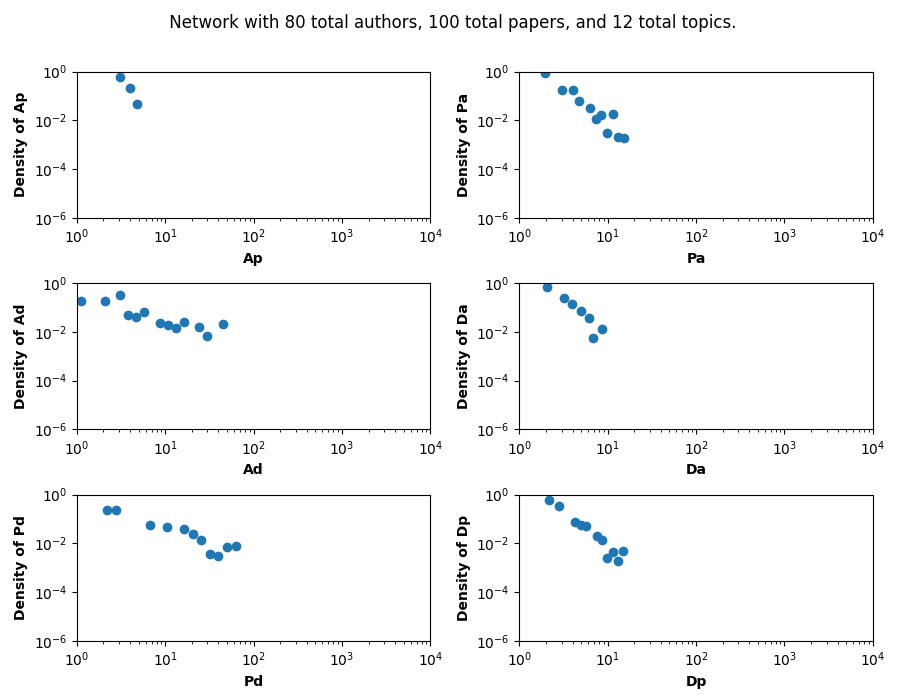
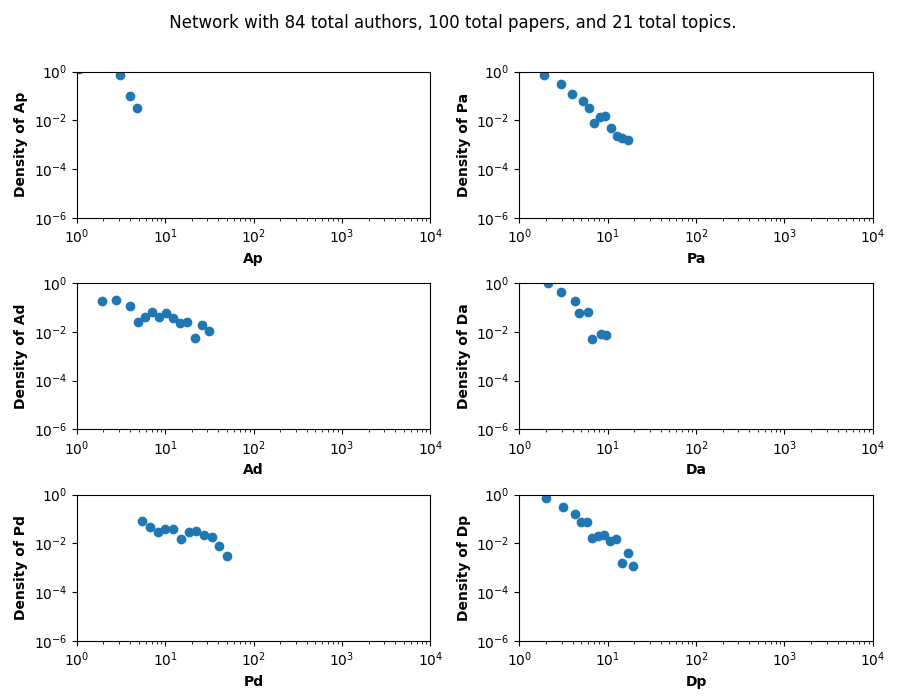
Added credit per discipline graph

diff --git a/docs/outputs/bibsonomyPage.html b/docs/outputs/bibsonomyPage.html
@@ -73,7 +73,7 @@
                         </tr>
                     </table>
                     <img src=bibsonomyPlots.png style="width:100%">
-                    <img src=[{1: [0, 1, 1, 0, 1, 1, 0, 1, 0, 0, 0, 1, 0, 1, 0, 1, 0, 0, 1, 0, 0, 0, 0, 0, 0, 0, 1, 0, 0, 0, 1, 1, 0, 1, 0, 1, 1, 0, 0, 0, 0, 1, 1, 1, 1, 1, 0, 1, 1, 1, 1, 1, 0, 0, 1, 1, 1, 1, 0, 0, 0, 0, 0, 1, 0, 1, 1, 1, 1, 0, 0, 1, 1, 0, 0, 0, 1, 1, 0, 0, 1, 1, 0, 1, 1, 0, 0, 1, 1, 1, 1, 1, 0, 1, 0, 0, 0, 1, 0, 1, 1, 1, 0, 0, 1, 0, 0, 1, 1, 0, 0, 0, 1, 1, 1, 1, 1], 2: [1, 0, 1, 0, 0, 1, 0, 0, 0, 0, 0, 0, 1, 0, 0, 1, 1, 1], 3: [0, 1, 0, 0, 1, 1, 0, 0, 1, 0, 0, 1, 0, 1, 0, 1, 0, 0, 1, 0, 0, 0, 1, 1, 0, 0, 1, 0, 1, 1, 1, 0, 0, 0, 0, 0, 1, 1, 1, 0, 0, 0, 0, 1, 1, 0, 1, 0, 0, 0, 0, 1, 1, 1, 0, 1, 0, 1, 1, 1, 1, 0, 0], 4: [0, 1, 0, 1, 1, 0, 0, 1, 0, 1, 0, 0, 1, 0, 0, 0, 0, 1, 1, 1, 0, 1, 1, 1, 1, 1, 1, 0, 1, 1, 0, 0, 1, 1, 0, 1, 0, 0, 0, 0, 1, 0, 1, 1, 0, 0, 1, 1, 1, 1, 0, 1, 1, 1, 1, 1, 0], 5: [0, 1, 1, 0, 0, 0, 0, 0, 1, 1, 0, 0, 1, 1, 0, 0, 0, 1, 0, 1, 0, 0, 1, 0, 1, 0, 1, 0, 0, 1, 0, 1, 1, 1, 0, 1, 1, 1, 0, 1, 0, 0, 0, 0, 0, 0, 1, 0], 6: [], 7: [], 8: [1, 0, 1, 1, 0, 0, 0, 0, 1, 1, 1, 1], 9: [1, 0, 0, 0, 0, 1, 0, 0, 1, 1, 0, 0, 0, 1, 0, 1, 1, 1, 0, 1, 1, 1, 1, 1, 0, 0, 1, 1, 1, 0, 1, 0, 0, 0, 1, 0, 1, 1, 0, 1, 1, 1, 1, 1, 1, 0, 1, 0, 0, 1, 1, 1, 0, 0, 1, 1, 1], 10: [1, 0, 0, 1, 0, 1], 11: [1, 0], 12: [0, 1, 1], 13: [1, 0, 1], 14: [0, 1, 1], 15: [0, 0, 1, 1], 16: [0, 1, 0, 1, 1], 17: [1, 0, 0, 0, 0, 0, 1, 0, 0, 0, 1, 0], 18: [1, 0], 19: [], 20: [0, 1, 1], 21: [], 22: [0, 0, 1, 0, 1, 0, 0, 1, 0, 0, 0, 1, 0, 1, 1, 1, 0, 0, 1, 1, 1, 1, 0, 0, 1, 1, 0, 0, 0, 1, 1, 1, 1, 1, 1, 1, 0, 1, 0, 1, 0, 1, 1, 0]}, {1: [6, 13, 19, 2, 5, 3, 2, 3, 3, 2, 5, 9, 4, 5, 3, 5, 2, 2, 3, 5, 2, 4, 3, 2, 2, 2, 23, 2, 5, 7, 9, 9, 3, 11, 4, 11, 5, 3, 3, 3, 2, 3, 3, 3, 3, 5, 3, 5, 3, 3, 3, 3, 2, 2, 3, 3, 25, 23, 4, 3, 5, 2, 5, 7, 8, 15, 9, 11, 3, 5, 3, 3, 11, 6, 5, 5, 5, 17, 2, 3, 7, 3, 3, 5, 5, 3, 3, 7, 3, 7, 5, 5, 2, 5, 2, 2, 4, 5, 2, 3, 5, 3, 2, 2, 5, 2, 2, 3, 3, 2, 2, 2, 3, 3, 3, 3, 3], 2: [13, 2, 3, 2, 3, 5, 2, 4, 3, 2, 2, 2, 9, 4, 2, 3, 5, 3], 3: [6, 19, 2, 5, 5, 3, 3, 2, 3, 3, 2, 3, 5, 9, 4, 5, 3, 2, 3, 5, 2, 2, 23, 13, 12, 2, 15, 2, 9, 5, 5, 3, 5, 4, 2, 3, 11, 5, 7, 5, 3, 3, 3, 3, 3, 4, 3, 2, 2, 3, 3, 5, 5, 3, 2, 5, 2, 3, 3, 3, 3, 2, 2], 4: [6, 19, 2, 5, 3, 2, 5, 9, 4, 5, 3, 2, 3, 5, 2, 2, 2, 27, 3, 17, 7, 7, 7, 11, 5, 11, 5, 5, 7, 11, 3, 3, 5, 9, 3, 3, 4, 4, 2, 3, 3, 2, 5, 3, 2, 3, 3, 5, 3, 5, 2, 3, 3, 3, 3, 3, 2], 5: [6, 13, 19, 2, 5, 5, 2, 9, 5, 5, 3, 2, 13, 3, 3, 3, 2, 3, 5, 9, 5, 3, 5, 4, 3, 2, 5, 3, 2, 5, 2, 3, 3, 3, 2, 3, 3, 3, 5, 3, 2, 4, 3, 2, 2, 2, 3, 2], 6: [], 7: [], 8: [5, 3, 3, 9, 4, 2, 4, 2, 3, 5, 3, 3], 9: [13, 2, 5, 2, 2, 3, 3, 5, 3, 3, 4, 3, 2, 3, 2, 21, 9, 11, 5, 7, 7, 9, 3, 11, 5, 5, 5, 5, 3, 2, 9, 4, 4, 3, 3, 2, 3, 5, 3, 3, 7, 5, 3, 5, 5, 2, 5, 2, 2, 3, 5, 3, 2, 2, 3, 3, 3], 10: [5, 2, 3, 5, 2, 3], 11: [5, 2], 12: [5, 3, 3], 13: [5, 3, 3], 14: [5, 3, 3], 15: [2, 5, 3, 3], 16: [5, 5, 2, 3, 3], 17: [13, 2, 5, 2, 3, 2, 3, 4, 3, 2, 3, 2], 18: [5, 2], 19: [], 20: [5, 3, 3], 21: [], 22: [10, 20, 33, 13, 13, 2, 13, 9, 5, 5, 6, 3, 3, 13, 3, 3, 5, 3, 5, 3, 5, 3, 3, 2, 3, 3, 3, 3, 2, 3, 5, 3, 5, 3, 3, 5, 3, 3, 2, 3, 2, 3, 3, 2]}] style="width:100%">
+                    <img src=bibsonomyDiscType.png style="width:100%">
                 </div>
 
                 <div class="w3-half">
@@ -89,11 +89,11 @@
                         </tr>
                         <tr>
                             <td>Number of Authors</td>
-                            <td>80</td>
+                            <td>84</td>
                         </tr>
                         <tr>
                             <td>Number of Topics</td>
-                            <td>12</td>
+                            <td>21</td>
                         </tr>
                         <tr>
                             <td>Number of Types</td>

diff --git a/docs/outputs/nanobankPage.html b/docs/outputs/nanobankPage.html
@@ -73,7 +73,7 @@
                         </tr>
                     </table>
                     <img src=nanobankPlots.png style="width:100%">
-                    <img src=[{1: [0, 1, 0, 0, 0, 1, 1, 0, 1, 0, 1, 0, 1, 1, 0, 0, 0, 0, 0, 1, 0, 0, 1, 1, 0, 1, 0, 1, 0, 0, 0, 0, 1, 0, 1, 0, 0, 0, 0, 0, 1, 0, 1, 0, 0, 1, 0, 0, 1, 0, 0, 0, 1, 0, 1, 0, 0, 1, 0, 0, 0, 0, 0, 0, 1, 1, 1, 1, 0, 0, 1, 1, 1, 1, 0, 0, 0, 1, 0, 1, 1, 1, 0, 0, 0, 0, 0, 0, 0, 1, 0, 1, 0, 1, 1, 0, 0, 1, 0, 1, 0, 0, 0, 1, 0, 1, 1, 1, 1, 0, 0, 0, 1, 0, 0, 1, 1, 0, 1, 1, 0, 1, 0, 0, 1, 0, 1, 1, 1, 0, 1, 0, 0, 0, 1, 1, 0, 0, 1, 1, 0, 1, 0, 1, 0, 0, 1, 0, 1, 0, 0, 1, 1, 1, 0, 1, 1, 0, 1, 0, 1, 0, 1, 1, 0, 1, 0, 0, 1, 1, 1, 1, 0, 0, 1, 1, 1, 0, 0, 1, 0, 0, 1, 1, 1, 0, 0, 1, 1, 1, 1, 1, 1, 0, 1, 1, 1, 0, 0, 0, 0, 0, 1, 1, 0, 1, 0, 0, 1, 1, 1, 1, 0, 1, 0, 1, 1, 1, 0, 0, 1, 0, 0, 0, 1, 0, 1, 1, 0, 0, 0, 1, 1, 0, 1, 1, 0, 0, 1, 1, 1, 1, 0, 0, 0, 0, 1, 0, 1, 1, 0, 0, 0, 0, 0, 0, 0, 0, 0, 1, 0, 0, 0, 1, 0, 0, 0, 0, 1, 1, 0, 0, 0, 1, 0, 0, 1, 0, 1, 1]}, {1: [32, 131, 29, 30, 28, 35, 47, 15, 11, 6, 3, 6, 5, 13, 2, 6, 2, 5, 6, 5, 4, 3, 7, 11, 4, 23, 4, 3, 3, 10, 3, 6, 3, 2, 9, 5, 6, 6, 2, 2, 5, 4, 3, 7, 2, 5, 2, 3, 5, 2, 2, 2, 3, 2, 5, 3, 2, 5, 3, 2, 3, 3, 2, 2, 3, 3, 7, 3, 3, 2, 3, 3, 5, 3, 2, 2, 2, 3, 2, 3, 3, 5, 2, 2, 3, 2, 2, 2, 2, 3, 25, 103, 33, 119, 75, 10, 10, 17, 4, 49, 2, 3, 4, 7, 3, 7, 11, 5, 23, 3, 4, 6, 17, 2, 3, 7, 7, 4, 3, 5, 2, 11, 6, 2, 3, 4, 5, 5, 5, 2, 3, 3, 3, 2, 5, 3, 3, 3, 5, 3, 3, 3, 3, 3, 2, 2, 3, 2, 3, 4, 2, 3, 3, 3, 3, 3, 3, 2, 3, 2, 5, 2, 3, 3, 2, 3, 2, 2, 3, 3, 5, 5, 2, 2, 3, 5, 3, 2, 2, 3, 2, 2, 113, 77, 11, 26, 21, 23, 29, 45, 5, 29, 35, 6, 5, 7, 9, 3, 3, 5, 3, 5, 7, 9, 6, 3, 5, 4, 9, 11, 5, 15, 3, 11, 2, 3, 3, 11, 3, 2, 5, 2, 3, 2, 7, 4, 3, 17, 2, 3, 2, 3, 7, 3, 3, 11, 3, 3, 9, 5, 5, 3, 5, 2, 2, 3, 3, 3, 3, 3, 3, 2, 2, 3, 2, 2, 2, 3, 2, 3, 2, 2, 2, 5, 3, 3, 2, 2, 5, 3, 2, 2, 2, 3, 2, 2, 3, 2, 3, 3]}] style="width:100%">
+                    <img src=nanobankDiscType.png style="width:100%">
                 </div>
 
                 <div class="w3-half">
@@ -89,7 +89,7 @@
                         </tr>
                         <tr>
                             <td>Number of Authors</td>
-                            <td>93</td>
+                            <td>95</td>
                         </tr>
                         <tr>
                             <td>Number of Topics</td>

diff --git a/docs/outputs/scholarometerPage.html b/docs/outputs/scholarometerPage.html
@@ -73,7 +73,7 @@
                         </tr>
                     </table>
                     <img src=scholarometerPlots.png style="width:100%">
-                    <img src=[{1: [1, 0, 0, 1, 0, 0, 1, 1, 1, 0, 0, 1, 1, 1, 0, 0, 1, 1, 0, 0, 1, 0, 1, 0, 1, 0, 1, 0, 1, 1, 0, 0, 1, 0, 1, 1, 0, 0], 2: [0, 0, 1, 1], 3: [1, 1, 1, 1, 1, 1, 1, 0, 1, 1, 1, 0, 0, 0, 0, 0, 0, 1, 1, 1, 1, 1, 0, 0, 0, 1, 0, 0, 0, 1, 1, 1, 1, 1, 0, 0, 1, 0, 0, 0, 0, 1, 0, 1, 0, 1, 1, 0, 1, 1, 0, 1], 4: [0], 5: [1, 1, 0, 1, 0, 1, 1, 1, 1, 1, 1, 1, 0, 0, 1, 1, 0, 1, 0, 0, 0, 0, 1, 1, 1, 1, 0, 0, 1, 0, 1, 0, 0, 0, 0, 0, 1, 1, 1, 1, 0, 1], 6: [0, 0, 1, 0, 1, 1, 0, 0, 0, 0, 0, 0, 0], 7: [0, 0], 8: []}, {1: [1507, 521, 412, 829, 207, 150, 291, 81, 49, 29, 27, 45, 39, 35, 23, 24, 33, 39, 12, 14, 9, 9, 17, 6, 11, 9, 11, 6, 7, 9, 5, 2, 7, 6, 3, 3, 105, 29], 2: [57, 33, 55, 7], 3: [1343, 1245, 969, 1007, 679, 415, 455, 104, 211, 115, 127, 81, 64, 51, 42, 55, 47, 53, 63, 63, 47, 47, 19, 29, 26, 49, 14, 21, 22, 43, 21, 23, 19, 17, 6, 5, 9, 7, 6, 6, 6, 11, 6, 3, 5, 7, 3, 3, 3, 3, 26, 15], 4: [29], 5: [1307, 1175, 291, 1047, 161, 407, 163, 161, 211, 147, 107, 107, 37, 27, 59, 57, 33, 39, 17, 17, 19, 11, 59, 35, 27, 19, 12, 11, 13, 12, 17, 8, 6, 6, 6, 8, 9, 5, 7, 5, 2, 3], 6: [121, 82, 97, 49, 73, 87, 36, 53, 28, 26, 8, 2, 402], 7: [41, 29], 8: []}] style="width:100%">
+                    <img src=scholarometerDiscType.png style="width:100%">
                 </div>
 
                 <div class="w3-half">
@@ -85,7 +85,7 @@
                         </tr>
                         <tr>
                             <td>Number of Papers</td>
-                            <td>1389</td>
+                            <td>1323</td>
                         </tr>
                         <tr>
                             <td>Number of Authors</td>
@@ -93,7 +93,7 @@
                         </tr>
                         <tr>
                             <td>Number of Topics</td>
-                            <td>5</td>
+                            <td>7</td>
                         </tr>
                         <tr>
                             <td>Number of Types</td>

diff --git a/modules/Evolution.py b/modules/Evolution.py
@@ -1,3 +1,4 @@
+from cProfile import label
 from modules.Type import Type
 from .ScholarNetwork import Graph
 from .Paper import Paper
@@ -378,7 +379,7 @@ class Evolution:
 
         # styling
         axis.set_ylabel(f'Density of credit', fontweight='bold')
-        axis.set_xlabel(f'Credit', fontweight='bold')
+        axis.set_xlabel(f'Author Credit', fontweight='bold')
         fig.suptitle(f'''Network credit distribution per type''')
         fig.tight_layout()
         plt.legend([str(x) for x in distribs.keys()], title="Type")
@@ -392,23 +393,35 @@ class Evolution:
         # get data from getDisciplineTypeDistribution method
         typeDistrib, creditDistrib = self.getDisciplineTypeDistribution() if not distr else distr
 
-        # declare figure and axis
-        fig = plt.figure(figsize=(9, 7))
-        axis = fig.add_subplot()
+        # change orientation of distributions
+        types = {}
+        for displineID, distrib in typeDistrib.items():
+            for typeID in distrib:
+                if typeID not in types:
+                    types[typeID] = []
+                types[typeID].append(displineID)
 
-        axis.hist(typeDistrib.values(), label=[str(x) for x in typeDistrib.keys()], density=False, bins='sqrt')
+        # declare figure and axis
+        fig, (ax1, ax2) = plt.subplots(figsize=(9, 7), nrows=2, ncols=1)
+
+        ax1.hist(types.values(), label=[str(x) for x in types.keys()], density=True, bins=len(typeDistrib.keys()))
+        ax2.bar(creditDistrib.keys(), [sum(x)/len(x) if len(x) else 0 for x in creditDistrib.values()], label='Average Credit per Author')
 
         # styling
-        axis.set_ylabel(f'Density of Types in Disciplines', fontweight='bold')
-        axis.set_xlabel(f'Discipline', fontweight='bold')
-        fig.suptitle(f'''Network Type Distribution throughout Disciplines''')
+        ax1.set_ylabel(f'Density of Types in Disciplines', fontweight='bold')
+        ax1.set_xlabel(f'Discipline', fontweight='bold')
+        ax1.set_title(f'''Network Type Distribution throughout Disciplines''')
+        ax1.legend([str(x) for x in types.keys()], title="Type")
+
+        ax2.set_ylabel(f'Average Credit per Author', fontweight='bold')
+        ax2.set_xlabel(f'Discipline', fontweight='bold')
+        ax2.set_title(f'''Credit Distribution throughout Disciplines''')
         fig.tight_layout()
-        plt.legend([str(x) for x in typeDistrib.keys()], title="Discipline")
 
         if saveToFile:
             fig.savefig(saveToFile)
             print(f'Saved to {saveToFile} successfully!')
-        return fig, axis
+        return fig, (ax1, ax2)
 
     def plotDescriptorsDistr(self, saveToFile=None, ylogBase=10, xlogBase=10, data=None, numAuthors='NA', numPapers='NA', numTopics='NA', networkName=''):
         '''
